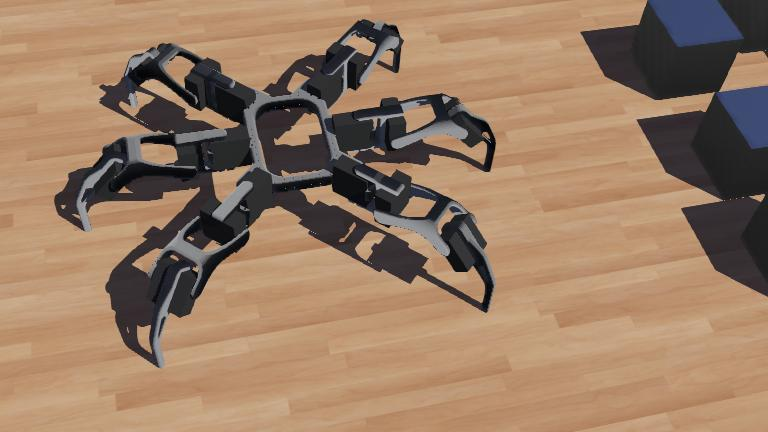
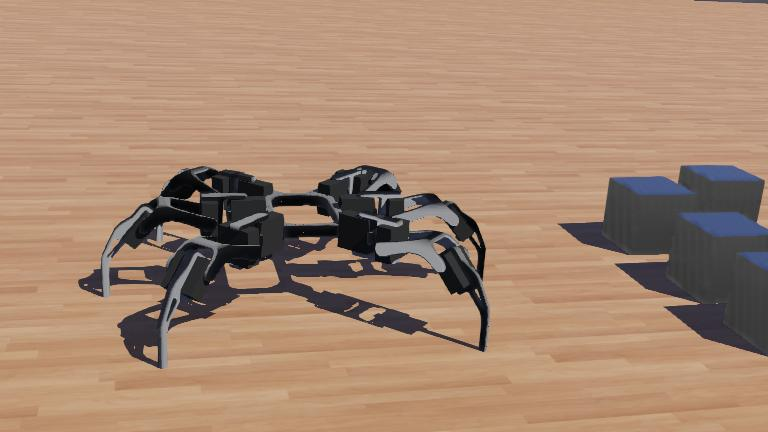
修改Roll为绝对角度，修改名称

diff --git a/controllers/new_hexapod/Hexapod.cpp b/controllers/new_hexapod/Hexapod.cpp
@@ -282,34 +282,17 @@ void Hexapod::setYaw(float yaw)
     FLleg.setYaw(yaw);
 }
 
-Vector3 Hexapod::yawBias(Vector3 bias, float theta)
+
+void Hexapod::setRoll(float roll)
 {
-    auto v = Vector3(
-        cos(theta) * (bias.x) - sin(theta) * (bias.y),
-        sin(theta) * (bias.x) + cos(theta) * (bias.y),
-        bias.z
-    );
-    return v;
+    BRleg.setRoll(roll);
+    MRleg.setRoll(roll);
+    FRleg.setRoll(roll);
+    BLleg.setRoll(roll);
+    MLleg.setRoll(roll);
+    FLleg.setRoll(roll);
 }
 
-void Hexapod::setPitch(float pitch)
-{
-    BRleg.setPitch(pitch);
-    MRleg.setPitch(pitch);
-    FRleg.setPitch(pitch);
-    BLleg.setPitch(pitch);
-    MLleg.setPitch(pitch);
-    FLleg.setPitch(pitch);
-}
-Vector3 Hexapod::pitchBias(Vector3 bias, float theta)
-{
-    auto v = Vector3(
-        cos(theta) * (bias.x) + sin(theta) * (bias.z),
-        bias.y,
-        -sin(theta) * (bias.x) + cos(theta) * (bias.z)
-    );
-    return v;
-}
 
 void Hexapod::startMove()
 {

diff --git a/controllers/new_hexapod/LegR.cpp b/controllers/new_hexapod/LegR.cpp
@@ -135,16 +135,14 @@ void LegR::setYaw(float yaw)
     currentStandAngles = ik(Hexapod::body2legCoord(currentStandBodyTarget, ctr2root, ctr2rootTheta));
 }
 
-void LegR::setPitch(float pitch)
+void LegR::setRoll(float roll)
 {
-    currentPitch = pitch;
-    Vector3 tmp = ctr2root;
-   ctr2root = Vector3(tmp.x*cos(currentPitch)+tmp.z*sin(currentPitch),
-                        tmp.y,
-                        -tmp.x*sin(currentPitch)+tmp.z*cos(currentPitch)                              
+   ctr2root = Vector3(ctr2root.x * cos(roll - currentRoll) + ctr2root.z * sin(roll - currentRoll),
+                        ctr2root.y,
+                        -ctr2root.x * sin(roll - currentRoll) + ctr2root.z * cos(roll - currentRoll)                              
    );
+    currentRoll = roll;
     currentStandAngles = ik(Hexapod::body2legCoord(currentStandBodyTarget,ctr2root,ctr2rootTheta));
-       
 }
 
 void LegR::startMotor()

diff --git a/controllers/new_hexapod/LegL.cpp b/controllers/new_hexapod/LegL.cpp
@@ -138,16 +138,14 @@ void LegL::setYaw(float yaw)
     currentStandAngles = ik(Hexapod::body2legCoord(currentStandBodyTarget, ctr2root, ctr2rootTheta));
 }
 
-void LegL::setPitch(float pitch)
+void LegL::setRoll(float roll)
 {
-    currentPitch=pitch;
-    Vector3 tmp =ctr2root;
-    ctr2root =Vector3(tmp.x*cos(currentPitch)+tmp.z*sin(currentPitch),
-                                 tmp.y,
-                                -tmp.x*sin(currentPitch)+tmp.z*cos(currentPitch)                              
+    ctr2root = Vector3(ctr2root.x * cos(roll - currentRoll) + ctr2root.z * sin(roll - currentRoll),
+                         ctr2root.y,
+                         -ctr2root.x * sin(roll - currentRoll) + ctr2root.z * cos(roll - currentRoll)                              
     );
+    currentRoll = roll;
     currentStandAngles = ik(Hexapod::body2legCoord(currentStandBodyTarget,ctr2root,ctr2rootTheta));
-       
 }
 
 

diff --git a/controllers/new_hexapod/Hexapod.h b/controllers/new_hexapod/Hexapod.h
@@ -109,8 +109,8 @@ public:
     void setHeight(float height);
 
     void setYaw(float yaw);
-    void setPitch(float pitch);
     void setRoll(float roll);
+    void setPitch(float pitch);
 
     /// <summary>
     /// 开始按照设置的角度和目标点运动
@@ -134,6 +134,4 @@ public:
     /// <returns>以腿根部为原点的相对向量(腿坐标系)</returns>
     static Vector3 body2legCoord(Vector3 absolute, Vector3 bias, float theta);
 
-    static Vector3 yawBias(Vector3 bias, float theta);
-    static Vector3 pitchBias(Vector3 bias,float theta );
 };

diff --git a/controllers/new_hexapod/new_hexapod.cpp b/controllers/new_hexapod/new_hexapod.cpp
@@ -21,13 +21,13 @@ int main(int argc, char** argv)
     robot->setPose(rightAngles, rightAngles, rightAngles, leftAngles, leftAngles, leftAngles);
     robot->startMove();*/
 
-    robot->omega = 0.0f;
-    robot->velocity = Vector3(0.1f, 0.0f, 0.0f);
+    robot->omega = 0.1f;
+    robot->velocity = Vector3(0.0f, 0.0f, 0.0f);
 
     robot->setHeight(0.100459f);
     // robot->setHeight(0.13f);
-    robot->setYaw(0.4f);
-    robot->setPitch((0.5f));
+    robot->setYaw(0.0f);
+    robot->setRoll((1.0f));
     robot->reInit();
     robot->startMove();
 

diff --git a/controllers/new_hexapod/LegR.h b/controllers/new_hexapod/LegR.h
@@ -22,8 +22,7 @@ public:
     Vector3 initAngles = Vector3(0.0f, 0.0f, static_cast<float>(M_PI) / 3.0f);
     Vector3 currentStandAngles = initAngles;
     float currentYaw = 0.0f;
-    float currentPitch=0.0f;
-    float currentRoll=0.0f;
+    float currentRoll= 0.0f;
     
 
     Vector3 ctr2root;
@@ -60,7 +59,7 @@ public:
     void reInit();
     void setHeight(float height);
     void setYaw(float yaw);
-    void setPitch(float pitch);
     void setRoll(float roll);
+    void setPitch(float pitch);
     void startMotor();
 };

diff --git a/controllers/new_hexapod/LegL.h b/controllers/new_hexapod/LegL.h
@@ -24,8 +24,7 @@ public:
     Vector3 ctr2root;
     float ctr2rootTheta;
     float currentYaw = 0.0f;
-    float currentPitch=0.0f;
-    float currentRoll=0.0f;
+    float currentRoll = 0.0f;
     
     Vector3 initStandBodyTarget;
     Vector3 currentStandBodyTarget;
